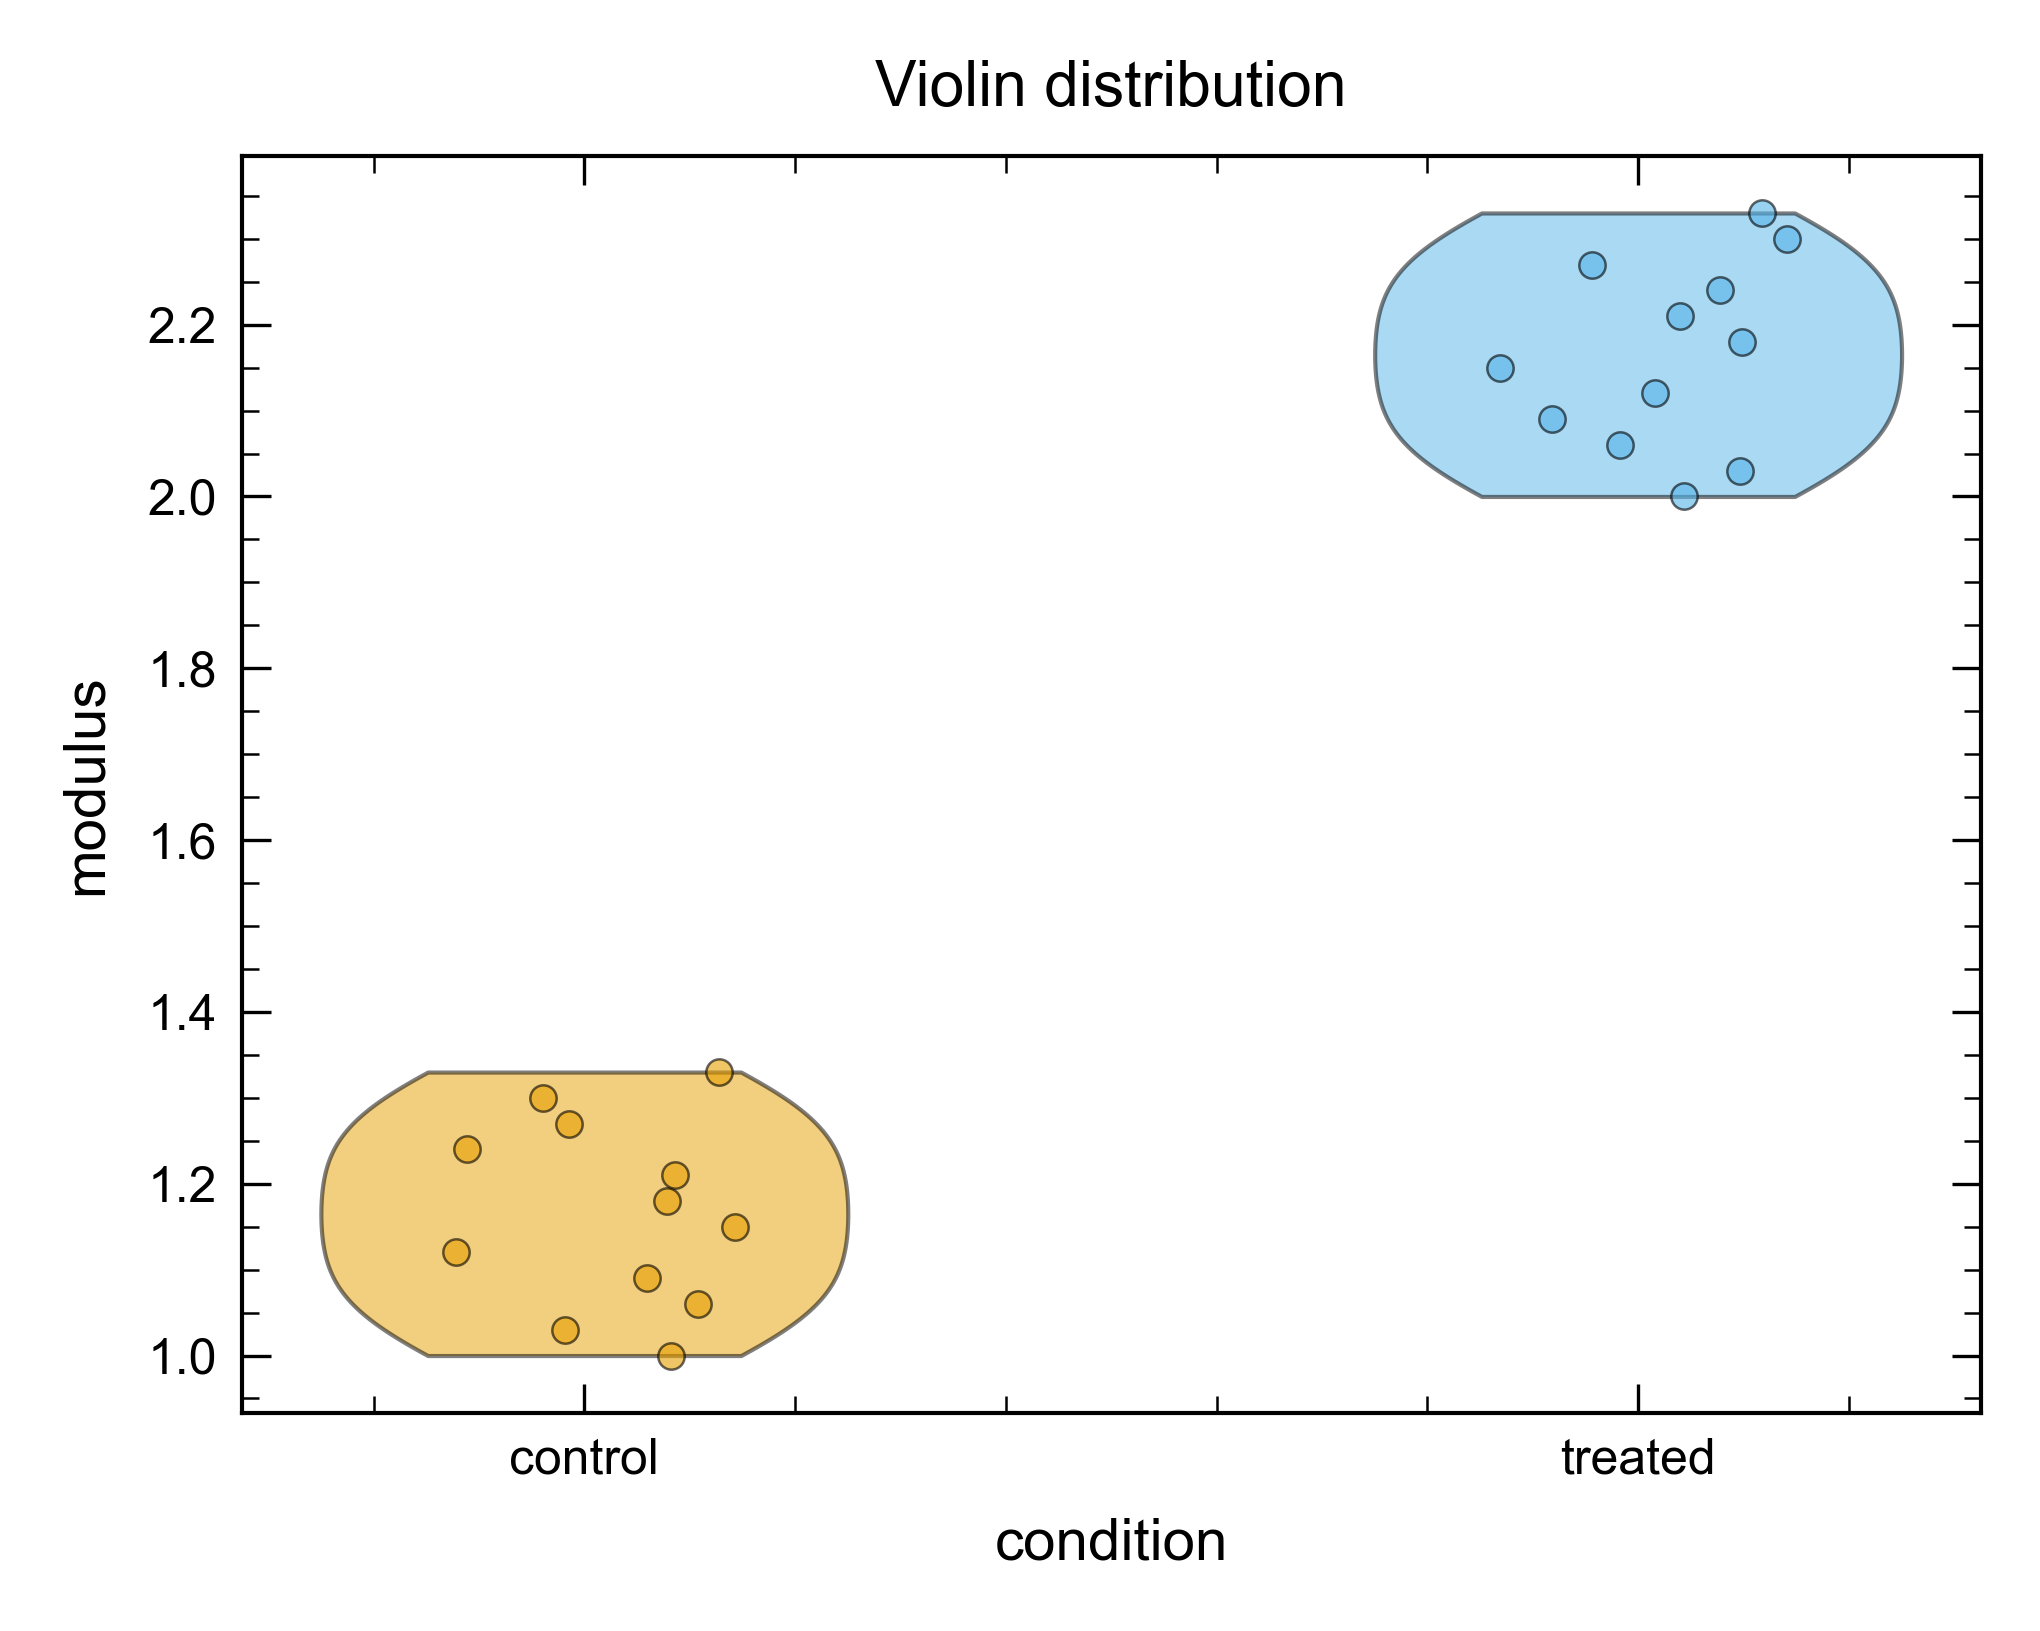
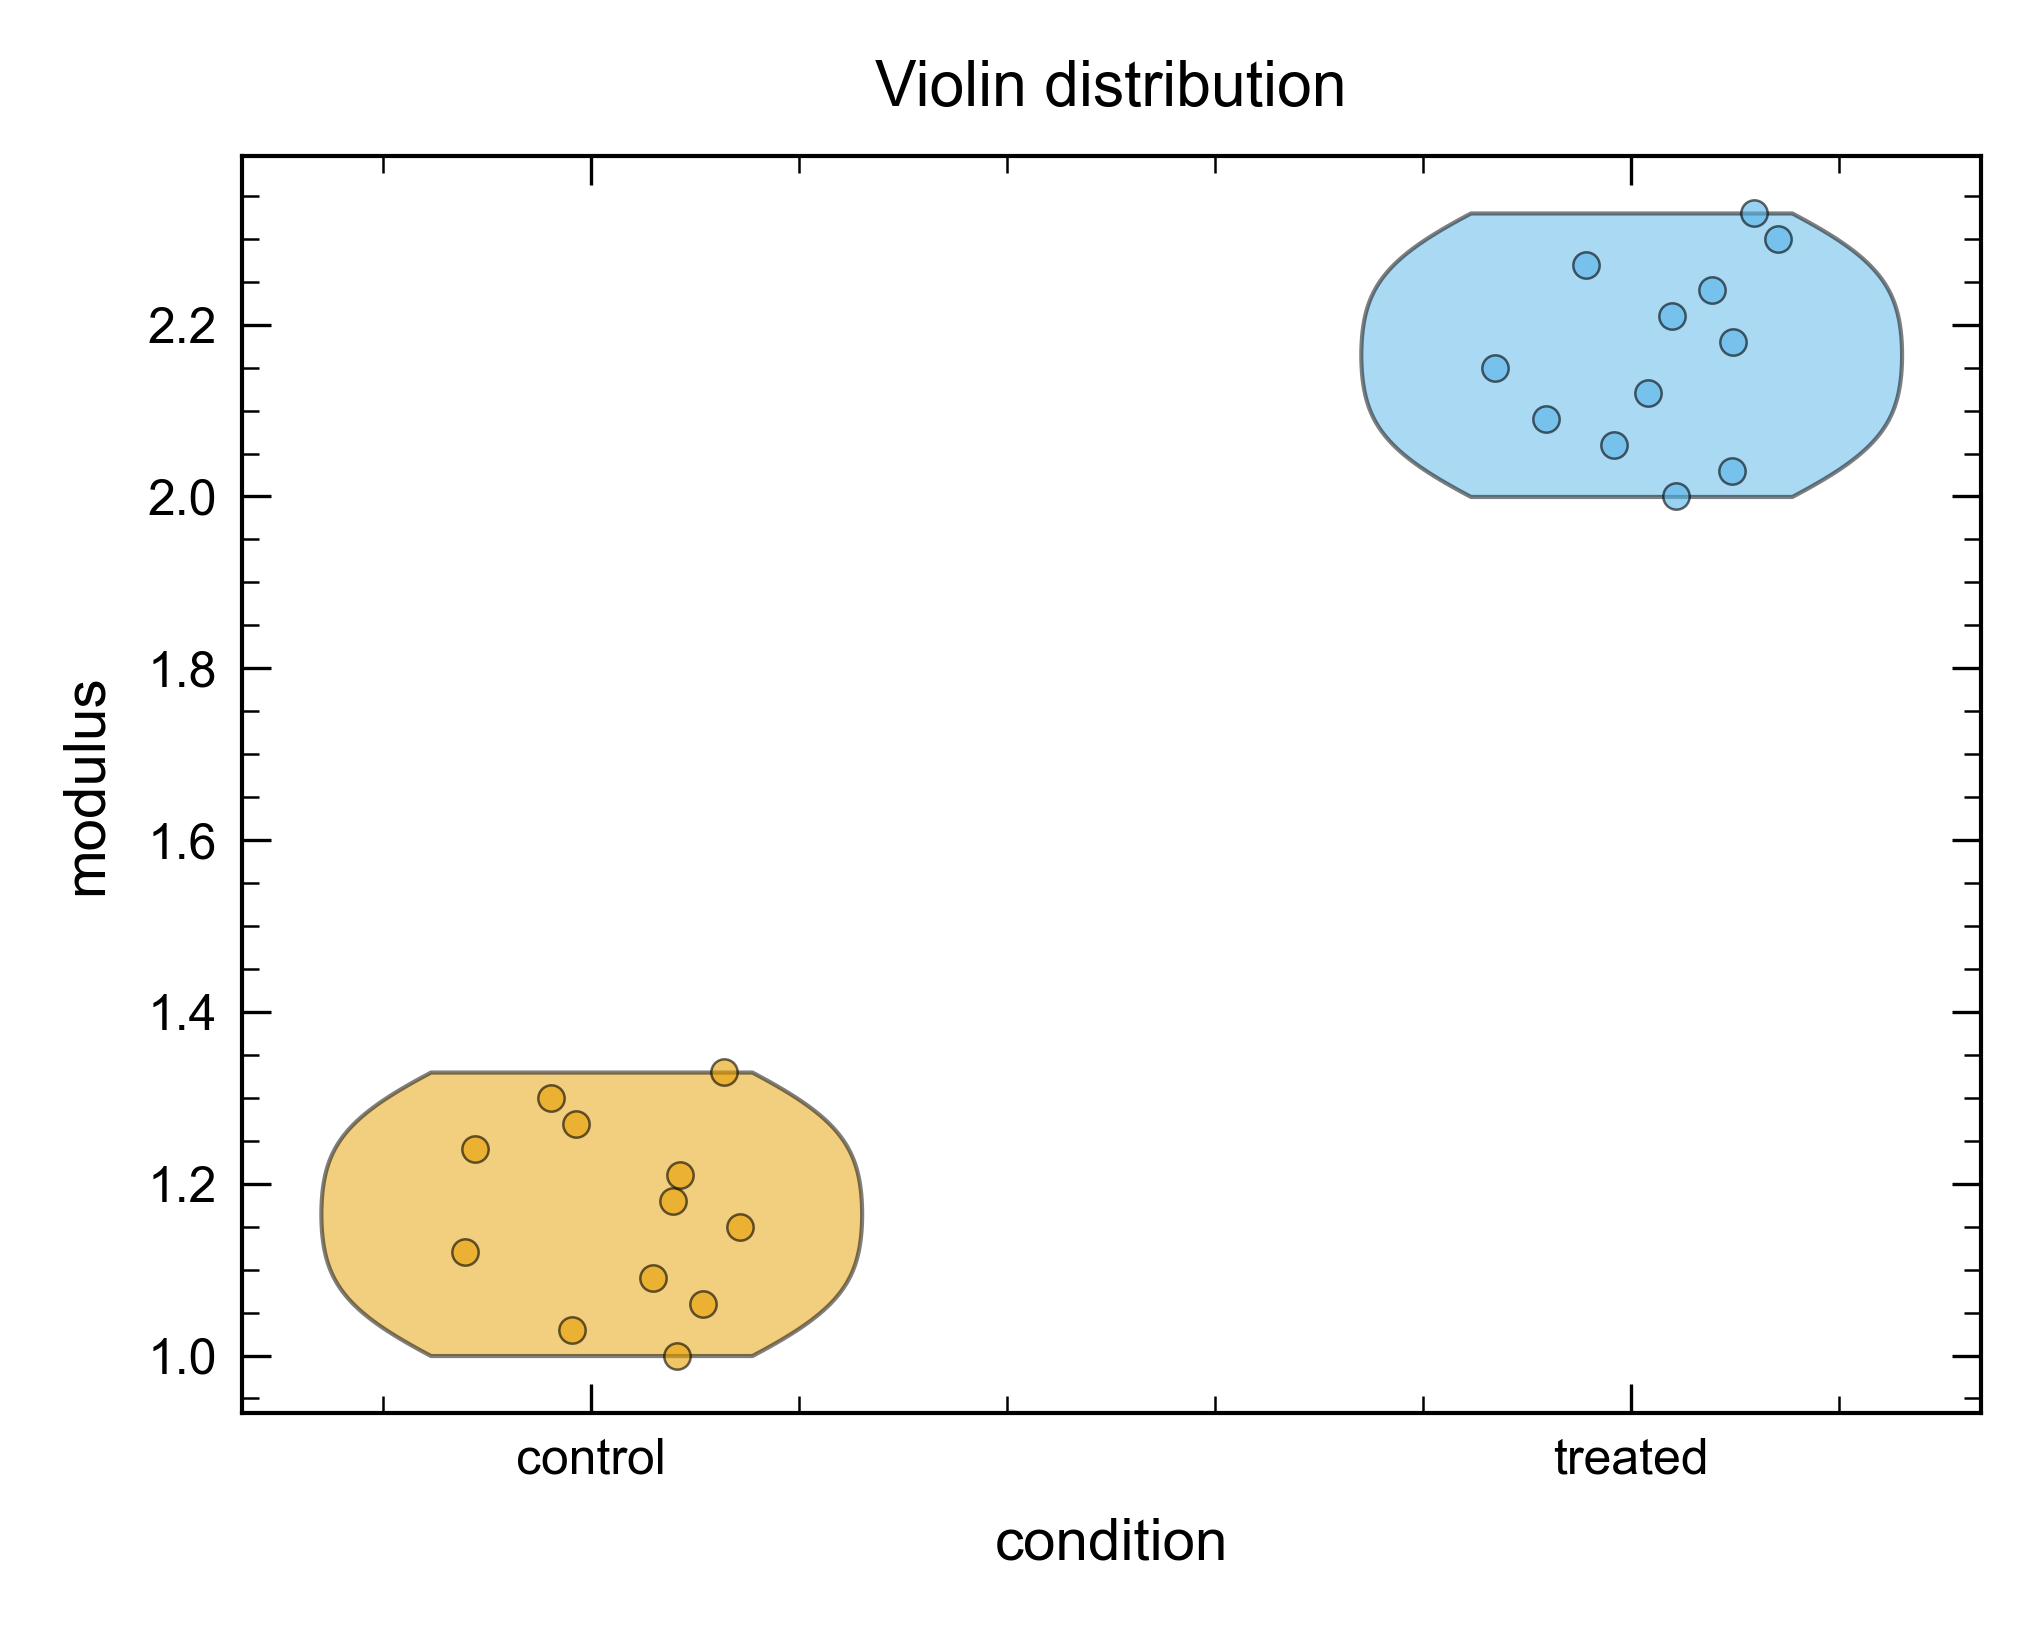
Improve Nature violin KDE smoothness

diff --git a/plotting/common_plots.py b/plotting/common_plots.py
@@ -15,6 +15,11 @@ import numpy as np
 import pandas as pd
 
 _JITTER_HALF_WIDTH = 0.15
+_DEFAULT_VIOLIN_KDE_POINTS = 100
+_DEFAULT_VIOLIN_KDE_BW_METHOD = "scott"
+_DEFAULT_VIOLIN_WIDTH = 0.5
+_MIN_VIOLIN_KDE_POINTS = 16
+_ALLOWED_VIOLIN_KDE_BW_METHODS = {"scott", "silverman"}
 
 
 def _get_cycle_colors(n: int) -> list[str]:
@@ -45,6 +50,35 @@ def _warn_small_n(n: int, group_name: str, threshold: int = 10) -> None:
             "Individual data points should be shown per Nature guidelines.",
             stacklevel=3,
         )
+
+
+def _validate_violin_kde_points(kde_points: int) -> int:
+    points = int(kde_points)
+    if points < _MIN_VIOLIN_KDE_POINTS:
+        raise ValueError(f"violin_kde_points must be >= {_MIN_VIOLIN_KDE_POINTS}")
+    return points
+
+
+def _validate_violin_kde_bw_method(bw_method):
+    if bw_method is None or callable(bw_method):
+        return bw_method
+    if isinstance(bw_method, str):
+        normalized = bw_method.strip().lower()
+        if normalized not in _ALLOWED_VIOLIN_KDE_BW_METHODS:
+            allowed = ", ".join(sorted(_ALLOWED_VIOLIN_KDE_BW_METHODS))
+            raise ValueError(f"violin_kde_bw_method must be one of: {allowed}")
+        return normalized
+    bw_value = float(bw_method)
+    if bw_value <= 0:
+        raise ValueError("violin_kde_bw_method numeric value must be > 0")
+    return bw_value
+
+
+def _validate_violin_width(width: float) -> float:
+    width_value = float(width)
+    if width_value <= 0:
+        raise ValueError("violin_width must be > 0")
+    return width_value
 
 
 # ---------------------------------------------------------------------------
@@ -228,6 +262,9 @@ def plot_violin_with_points(
     ax: plt.Axes | None = None,
     palette: dict | None = None,
     min_n: int = 10,
+    kde_points: int = _DEFAULT_VIOLIN_KDE_POINTS,
+    kde_bw_method=_DEFAULT_VIOLIN_KDE_BW_METHOD,
+    violin_width: float = _DEFAULT_VIOLIN_WIDTH,
     seed: int = 42,
 ) -> tuple:
     """Violin plot with jitter overlay. Falls back to strip plot when n < min_n.
@@ -255,7 +292,15 @@ def plot_violin_with_points(
     dataset = [df[df[x_col] == cat][y_col].dropna().values for cat in categories]
     positions = list(range(len(categories)))
 
-    parts = ax.violinplot(dataset, positions=positions, showmeans=False, showextrema=False)
+    parts = ax.violinplot(
+        dataset,
+        positions=positions,
+        widths=_validate_violin_width(violin_width),
+        showmeans=False,
+        showextrema=False,
+        points=_validate_violin_kde_points(kde_points),
+        bw_method=_validate_violin_kde_bw_method(kde_bw_method),
+    )
     for i, body in enumerate(parts["bodies"]):
         color = _resolve_color(palette, categories[i], i, cycle_colors)
         body.set_facecolor(color)

diff --git a/plotting/bridge_renderer.py b/plotting/bridge_renderer.py
@@ -1094,7 +1094,16 @@ def _render_box_plot(ax, points: list[dict], spec: BridgeFigureSpec) -> None:
 def _render_violin_plot(ax, points: list[dict], spec: BridgeFigureSpec) -> None:
     from plotting.common_plots import plot_violin_with_points
 
-    plot_violin_with_points(_points_to_distribution_frame(points, spec), spec.x_column, spec.y_column, ax=ax)
+    tokens, _meta = get_render_style_tokens(spec.target_format, spec.profile_name)
+    plot_violin_with_points(
+        _points_to_distribution_frame(points, spec),
+        spec.x_column,
+        spec.y_column,
+        ax=ax,
+        kde_points=tokens["violin_kde_points"],
+        kde_bw_method=tokens["violin_kde_bw_method"],
+        violin_width=tokens["violin_width"],
+    )
 
 
 def _points_to_distribution_frame(points: list[dict], spec: BridgeFigureSpec):

diff --git a/themes/style_profiles.py b/themes/style_profiles.py
@@ -45,6 +45,9 @@ STYLE_PROFILES = {
             "jitter_line_width": 0.6,
             "jitter_alpha": 0.75,
             "jitter_sigma": 0.07,
+            "violin_kde_points": 100,
+            "violin_kde_bw_method": "scott",
+            "violin_width": 0.5,
             "bar_edge_width": 0.5,
             "grid_y": False,
             "grid_color": "#e0e0e0",
@@ -93,6 +96,9 @@ STYLE_PROFILES = {
             "jitter_line_width": 0.6,
             "jitter_alpha": 0.65,
             "jitter_sigma": 0.07,
+            "violin_kde_points": 100,
+            "violin_kde_bw_method": "scott",
+            "violin_width": 0.5,
             "bar_edge_width": 0.55,
             "grid_y": True,
             "grid_color": "#e0e0e0",
@@ -118,6 +124,9 @@ TARGET_FORMAT_PROFILE_TOKENS = {
             "facet_marker_size": 2.4,
             "axis_marker_margin_fraction": 0.06,
             "facet_axis_marker_margin_fraction": 0.16,
+            "violin_kde_points": 256,
+            "violin_kde_bw_method": "scott",
+            "violin_width": 0.52,
         },
     },
 }

diff --git a/tests/test_bridge_renderer.py b/tests/test_bridge_renderer.py
@@ -355,6 +355,13 @@ class BridgeRendererUnitTest(unittest.TestCase):
             self.assertTrue(Path(out).exists())
             self.assertEqual(observed["xtick_labels"], ["control", "treated"])
             self.assertGreaterEqual(len(observed["violin_bodies"]), 2)
+            self.assertTrue(
+                all(
+                    len(path.vertices) >= 500
+                    for body in observed["violin_bodies"]
+                    for path in body.get_paths()
+                )
+            )
             self.assertEqual(sum(len(collection.get_offsets()) for collection in observed["point_collections"]), 24)
 
     def test_box_plot_type_matches_visual_regression_baseline(self):

diff --git a/tests/test_style_profiles.py b/tests/test_style_profiles.py
@@ -77,6 +77,9 @@ class TestProfileResolution(unittest.TestCase):
         self.assertEqual(meta["profile"], "baseline")
         self.assertEqual(tokens["main_marker_size"], 3.2)
         self.assertEqual(tokens["facet_marker_size"], 2.4)
+        self.assertEqual(tokens["violin_kde_points"], 256)
+        self.assertEqual(tokens["violin_kde_bw_method"], "scott")
+        self.assertEqual(tokens["violin_width"], 0.52)
         self.assertLess(tokens["facet_marker_size"], tokens["main_marker_size"])
 
     def test_science_baseline_keeps_profile_marker_size(self):
@@ -85,6 +88,7 @@ class TestProfileResolution(unittest.TestCase):
         self.assertEqual(meta["target_format"], "science")
         self.assertEqual(meta["profile"], "baseline")
         self.assertEqual(tokens["main_marker_size"], 5.0)
+        self.assertEqual(tokens["violin_kde_points"], 100)
 
 
 if __name__ == "__main__":

diff --git a/tests/test_common_plots.py b/tests/test_common_plots.py
@@ -84,6 +84,9 @@ class TestPlotViolinWithPoints:
         with pytest.warns(UserWarning, match="falling back to strip plot"):
             fig, ax = plot_violin_with_points(small_df, "sample", "value")
         assert isinstance(fig, plt.Figure)
+        violin_bodies = [c for c in ax.collections
+                         if "PolyCollection" in type(c).__name__]
+        assert violin_bodies == []
 
     def test_large_n_creates_violin(self, large_df):
         fig, ax = plot_violin_with_points(large_df, "sample", "value")